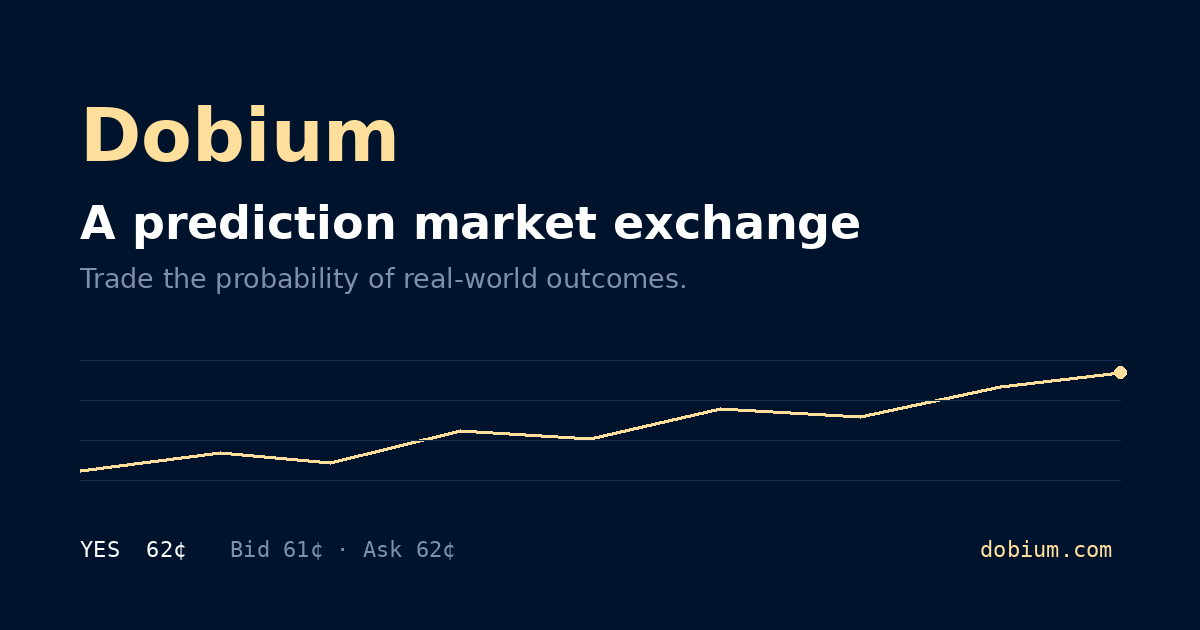
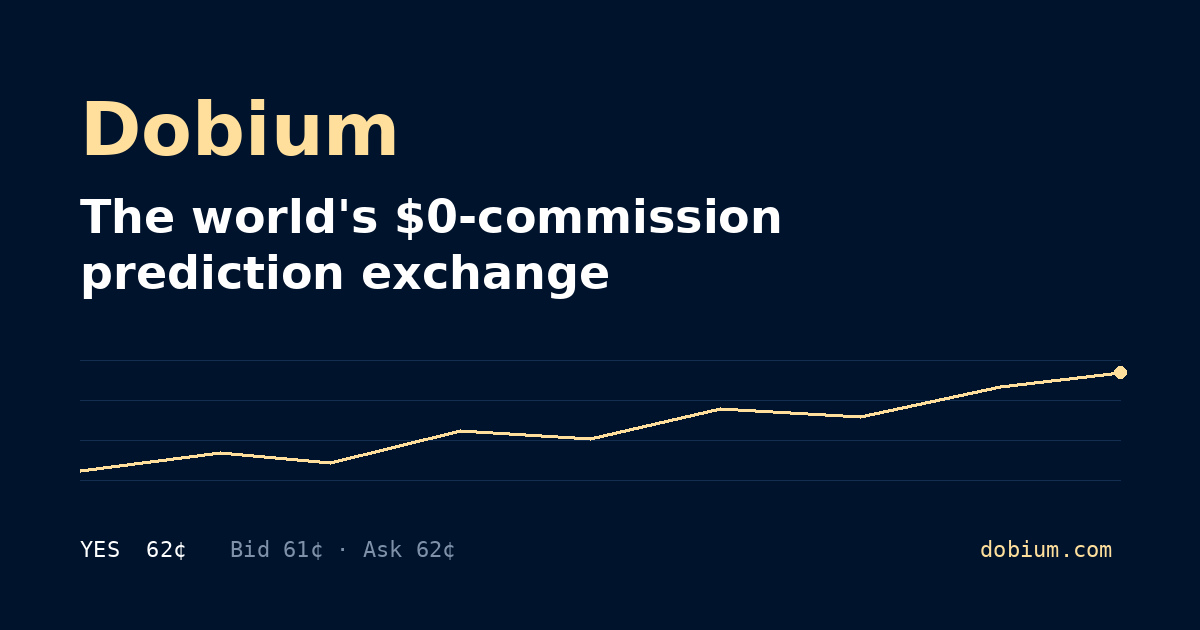
Put "The world's $0-commission prediction exchange" on every share
Two paths were sharing without it: the Instagram button and the copy button
both copied the bare referral link. Both now copy the full message plus link,
and the copy button is relabelled "Copy message & link".

Also carries the line into:
- the email subject line
- og:title / twitter:title, so the preview card under any pasted link says it
- og.png, whose headline read "A prediction market exchange"

Verified in a browser: X, Email and LinkedIn links, the Instagram, LinkedIn
and Copy clipboard contents, the phone share sheet and the preview title all
contain the phrase.

Changed region(s): [[0.0617, 0.3016, 0.74, 0.4825], [0.0617, 0.1508, 0.3392, 0.2714]]

diff --git a/frontend/src/pages/WaitlistPage.jsx b/frontend/src/pages/WaitlistPage.jsx
@@ -77,9 +77,9 @@ function shareTargets(url) {
     // story from the web. Copy the link, open Instagram, and say so.
     {
       id: 'ig', label: 'Instagram', href: 'https://www.instagram.com/',
-      copy: url, note: 'Link copied — paste it into your story or bio.',
+      copy: full, note: 'Message copied — paste it into your story or post.',
     },
-    { id: 'mail', label: 'Email', href: `mailto:?subject=${encodeURIComponent('Dobium — early access')}&body=${encodeURIComponent(full)}` },
+    { id: 'mail', label: 'Email', href: `mailto:?subject=${encodeURIComponent("Dobium — The world's $0-commission prediction exchange")}&body=${encodeURIComponent(full)}` },
     // LinkedIn's documented share endpoint (share-offsite) accepts a URL only
     // and discards any text, so the message never appeared. The feed composer
     // takes pre-filled text. It isn't officially documented, so the message is
@@ -328,7 +328,7 @@ export default function WaitlistPage() {
                 <button
                   onClick={() => {
                     navigator.clipboard
-                      ?.writeText(link)
+                      ?.writeText(`${SHARE_MSG} ${link}`)
                       .then(() => { setCopied(true); setTimeout(() => setCopied(false), 2000); })
                       .catch(() => {});
                   }}
@@ -338,7 +338,7 @@ export default function WaitlistPage() {
                     fontWeight: 600, fontSize: 12.5,
                   }}
                 >
-                  {copied ? 'Copied' : 'Copy link'}
+                  {copied ? 'Copied' : 'Copy message & link'}
                 </button>
               </div>
             );

diff --git a/frontend/index.html b/frontend/index.html
@@ -10,14 +10,14 @@
          ignored. -->
     <meta property="og:type" content="website" />
     <meta property="og:site_name" content="Dobium" />
-    <meta property="og:title" content="Dobium — a prediction market exchange" />
+    <meta property="og:title" content="Dobium — The world's $0-commission prediction exchange" />
     <meta property="og:description" content="Trade the probability of real-world outcomes. Join the waitlist for early access." />
     <meta property="og:url" content="https://dobium.com" />
     <meta property="og:image" content="https://dobium.com/og.png" />
     <meta property="og:image:width" content="1200" />
     <meta property="og:image:height" content="630" />
     <meta name="twitter:card" content="summary_large_image" />
-    <meta name="twitter:title" content="Dobium — a prediction market exchange" />
+    <meta name="twitter:title" content="Dobium — The world's $0-commission prediction exchange" />
     <meta name="twitter:description" content="Trade the probability of real-world outcomes. Join the waitlist for early access." />
     <meta name="twitter:image" content="https://dobium.com/og.png" />
     <title>Dobium — Prediction Market for Trading the Moment</title>
